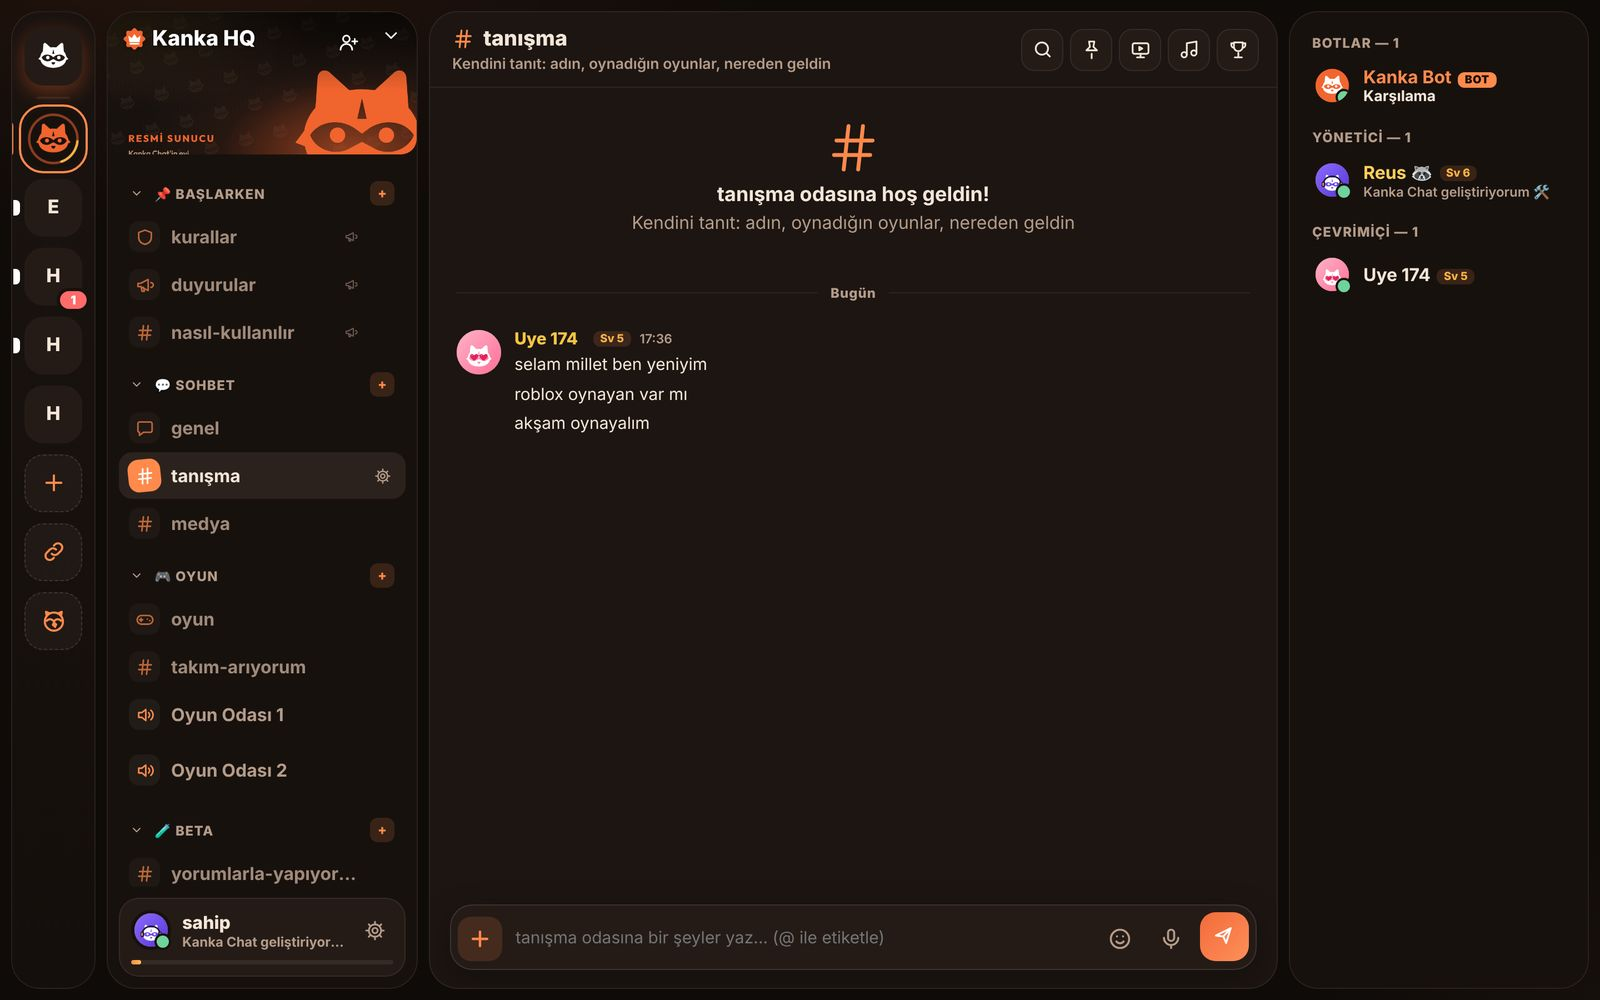
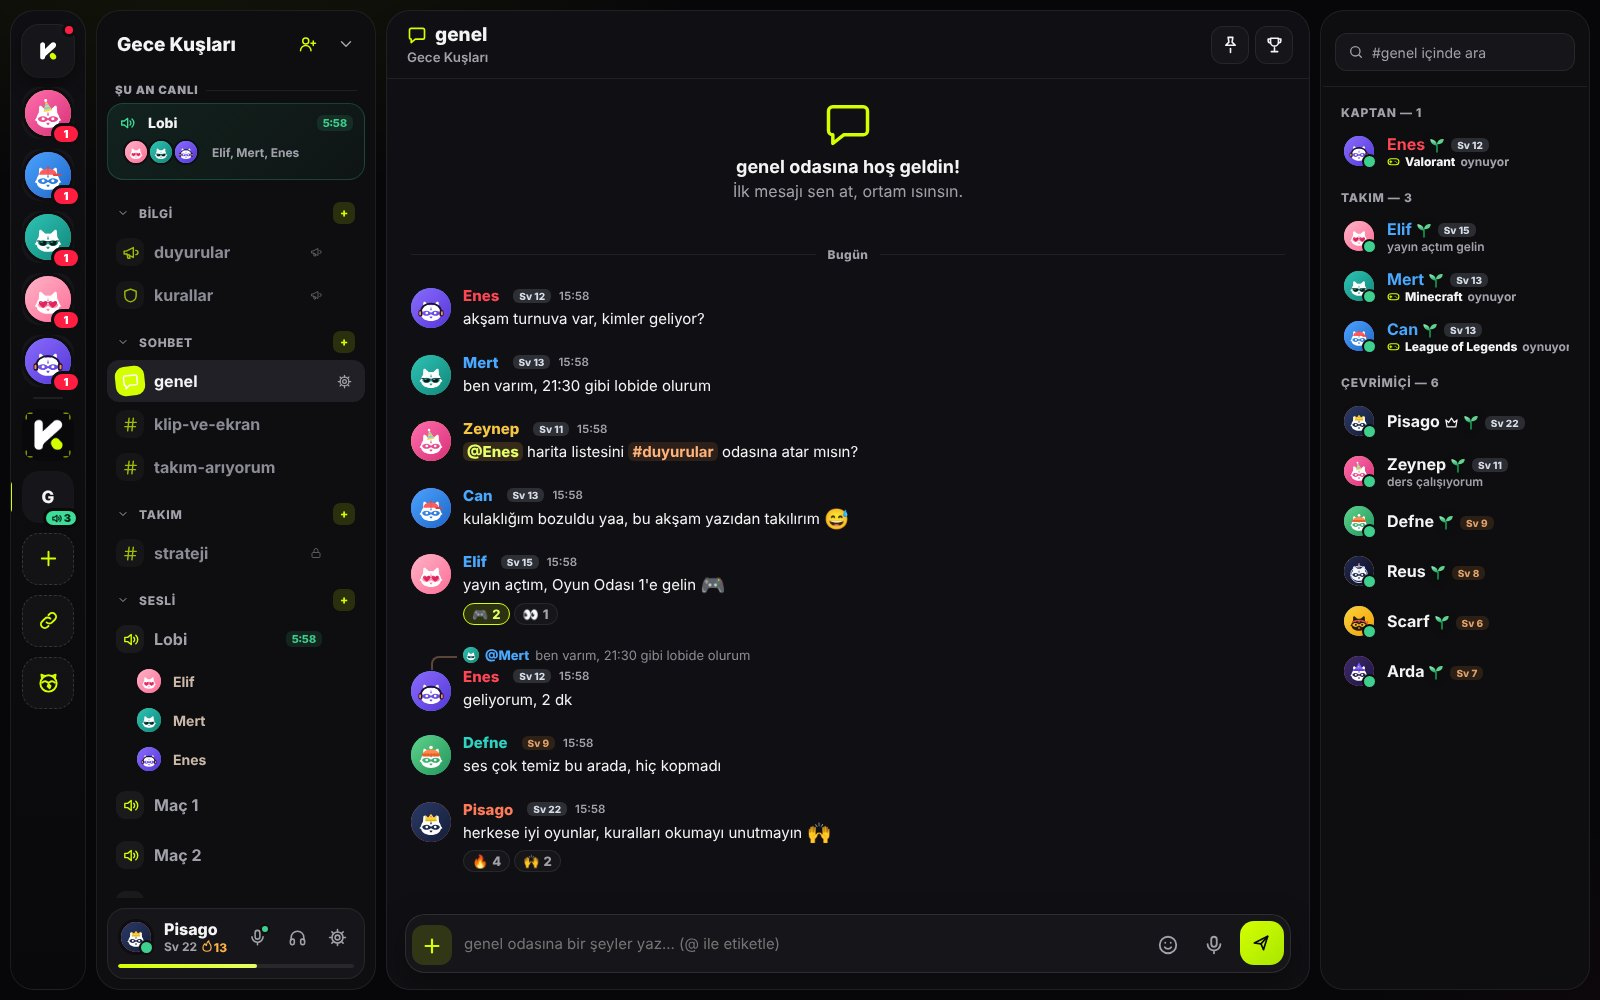
Tanıtım sayfası yeni Noir temada: ekran görüntüleri yenilendi (#22)
- Sesli oda + yayın, Yuva, sunucu sohbeti, arkadaşlar, telefon ve paylaşım görseli yeni arayüzden yeniden çekildi
- Sayfadaki turuncu vurgular (çerez kutusu, kart simgeleri, alt bölüm ışığı) yeşil-sarı Noir vurguya geçti
- Hero'daki yüzen kartlar yeni görsele uyduruldu
- Kullanıcı kartında seviye satırı sığacak kadar kısaldı (Sv 22 🔥13)

Claude-Session: https://claude.ai/code/session_01PYpKKv5TNk59vAndhU7jXR

diff --git a/public/sesli-sohbet.html b/public/sesli-sohbet.html
@@ -106,7 +106,7 @@
   .cards { display:grid; grid-template-columns:repeat(3,1fr); gap:20px; text-align:left; }
   .card { background:var(--card); border:1px solid var(--line); border-radius:20px; padding:28px; transition:transform .2s, border-color .2s; }
   .card:hover { transform:translateY(-4px); border-color:#6a4a36; }
-  .card .ico { width:52px; height:52px; border-radius:15px; display:grid; place-items:center; font-size:26px; margin-bottom:18px; background:#ff8a4c1f; }
+  .card .ico { width:52px; height:52px; border-radius:15px; display:grid; place-items:center; font-size:26px; margin-bottom:18px; background:#d4ff001a; }
   .card h3 { font-size:20px; font-weight:800; margin-bottom:8px; }
   .card p { color:var(--muted); font-size:15.5px; }
 
@@ -120,7 +120,7 @@
   details p { color:#d4c3b7; margin-top:10px; }
 
   /* kapanış */
-  .final { padding:120px 0 140px; text-align:center; position:relative; overflow:hidden; background:radial-gradient(900px 420px at 50% 100%, #ff8a4c30, transparent 70%), var(--bg); }
+  .final { padding:120px 0 140px; text-align:center; position:relative; overflow:hidden; background:radial-gradient(900px 420px at 50% 100%, #d4ff0022, transparent 70%), var(--bg); }
   .final img.mark { width:96px; height:96px; border-radius:26px; margin:0 auto 28px; box-shadow:0 20px 50px rgba(255,110,60,.35); animation:float 6s ease-in-out infinite; }
   .final h2 { font-size:clamp(38px,6vw,72px); text-transform:uppercase; letter-spacing:-2px; margin-bottom:18px; }
   .final p { color:var(--muted); font-size:19px; margin-bottom:34px; }
@@ -169,8 +169,8 @@
     <div class="stage">
       <div class="shot main"><img src="/marka/lp/ses.jpg" alt="Kanka Chat sesli oda ve canlı yayın ekranı" width="1400" height="875"></div>
       <div class="shot phone"><img src="/marka/lp/mobil.jpg" alt="Kanka Chat telefonda" width="640" height="1152"></div>
-      <div class="bubble b1"><div class="av" style="background:#3fcf8e26">🎧</div><div>Oyun Odası 1<small>4 kişi seste · 1:24</small></div></div>
-      <div class="bubble b2"><div class="av" style="background:#ff8a4c26">🔥</div><div>Elif yayında<small>Kanka HQ · 3 izleyen</small></div></div>
+      <div class="bubble b1"><div class="av" style="background:#3fcf8e26">🎧</div><div>Lobi<small>4 kişi seste · 4:00</small></div></div>
+      <div class="bubble b2"><div class="av" style="background:#d4ff0026">🔥</div><div>Pisago yayında<small>Gece Kuşları · 1080p</small></div></div>
     </div>
   </div>
   <div class="fade"></div>
@@ -279,12 +279,12 @@
   document.querySelectorAll('.reveal').forEach(function (el) { io ? io.observe(el) : el.classList.add('in'); });
 </script>
 
-<div id="cerez" hidden style="position:fixed;left:16px;right:16px;bottom:16px;z-index:9999;max-width:560px;margin:0 auto;background:#1c1512;border:1px solid #3a2c25;border-radius:18px;padding:16px 18px;box-shadow:0 20px 50px rgba(0,0,0,.5);color:#f3e9e1;font:14px/1.5 system-ui,-apple-system,Segoe UI,sans-serif">
+<div id="cerez" hidden style="position:fixed;left:16px;right:16px;bottom:16px;z-index:9999;max-width:560px;margin:0 auto;background:#141417;border:1px solid #2a2a30;border-radius:18px;padding:16px 18px;box-shadow:0 20px 50px rgba(0,0,0,.5);color:#f4f4f5;font:14px/1.5 system-ui,-apple-system,Segoe UI,sans-serif">
   <b style="display:block;font-size:15px;margin-bottom:4px">🍪 Çerez tercihin</b>
-  <span style="color:#c9b8aa">Reklamlarımızın işe yarayıp yaramadığını ölçmek için bu tanıtım sayfasında Google çerezlerini kullanmak istiyoruz. Uygulamanın içinde reklam ya da takip çerezi yok. <a href="/gizlilik.html#cerez" style="color:#ff9a62">Ayrıntılar</a></span>
+  <span style="color:#a1a1aa">Reklamlarımızın işe yarayıp yaramadığını ölçmek için bu tanıtım sayfasında Google çerezlerini kullanmak istiyoruz. Uygulamanın içinde reklam ya da takip çerezi yok. <a href="/gizlilik.html#cerez" style="color:#d4ff00">Ayrıntılar</a></span>
   <div style="display:flex;gap:8px;margin-top:12px;flex-wrap:wrap">
-    <button id="cerez-evet" style="flex:1;min-width:120px;height:40px;border:0;border-radius:12px;background:#ff8a4c;color:#1a0f08;font-weight:800;cursor:pointer">Kabul et</button>
-    <button id="cerez-hayir" style="flex:1;min-width:120px;height:40px;border:1px solid #3a2c25;border-radius:12px;background:transparent;color:#f3e9e1;font-weight:700;cursor:pointer">Reddet</button>
+    <button id="cerez-evet" style="flex:1;min-width:120px;height:40px;border:0;border-radius:12px;background:#d4ff00;color:#0b0f00;font-weight:800;cursor:pointer">Kabul et</button>
+    <button id="cerez-hayir" style="flex:1;min-width:120px;height:40px;border:1px solid #2a2a30;border-radius:12px;background:transparent;color:#f4f4f5;font-weight:700;cursor:pointer">Reddet</button>
   </div>
 </div>
 <script>

diff --git a/public/index.html b/public/index.html
@@ -9026,7 +9026,7 @@ function renderMe() {
   { let x = $('#me-xp'); if (!x) { $('#me .row1').insertAdjacentHTML('afterend', '<div id="me-xp" title=""><i></i></div>'); x = $('#me-xp'); }
     const lo = lvlFloor(u.level), hi = lvlFloor(u.level + 1), pct = Math.max(2, Math.min(100, Math.round((u.xp - lo) / (hi - lo) * 100)));
     x.firstChild.style.width = pct + '%'; x.title = `Seviye ${u.level} · ${u.xp} / ${hi} XP`; }
-  $('#me-lvl').innerHTML = actLine(S.me) || (u.status ? esc(u.status) : '') || `<span title="Seviye ${u.level}${u.streak ? ` · ${u.streak} günlük seri` : ''}">Sv ${u.level}${u.streak ? ` · <span class="streak">${ic('fire')} ${u.streak}</span>` : ''}</span>`;
+  $('#me-lvl').innerHTML = actLine(S.me) || (u.status ? esc(u.status) : '') || `<span title="Seviye ${u.level}${u.streak ? ` · ${u.streak} günlük seri` : ''}">Sv ${u.level}${u.streak ? ` <span class="streak">${ic('fire')}${u.streak}</span>` : ''}</span>`;
 }
 function setPresence(list) {
   const pairs = (list || []).map(x => Array.isArray(x) ? x : [x, 'online']);
